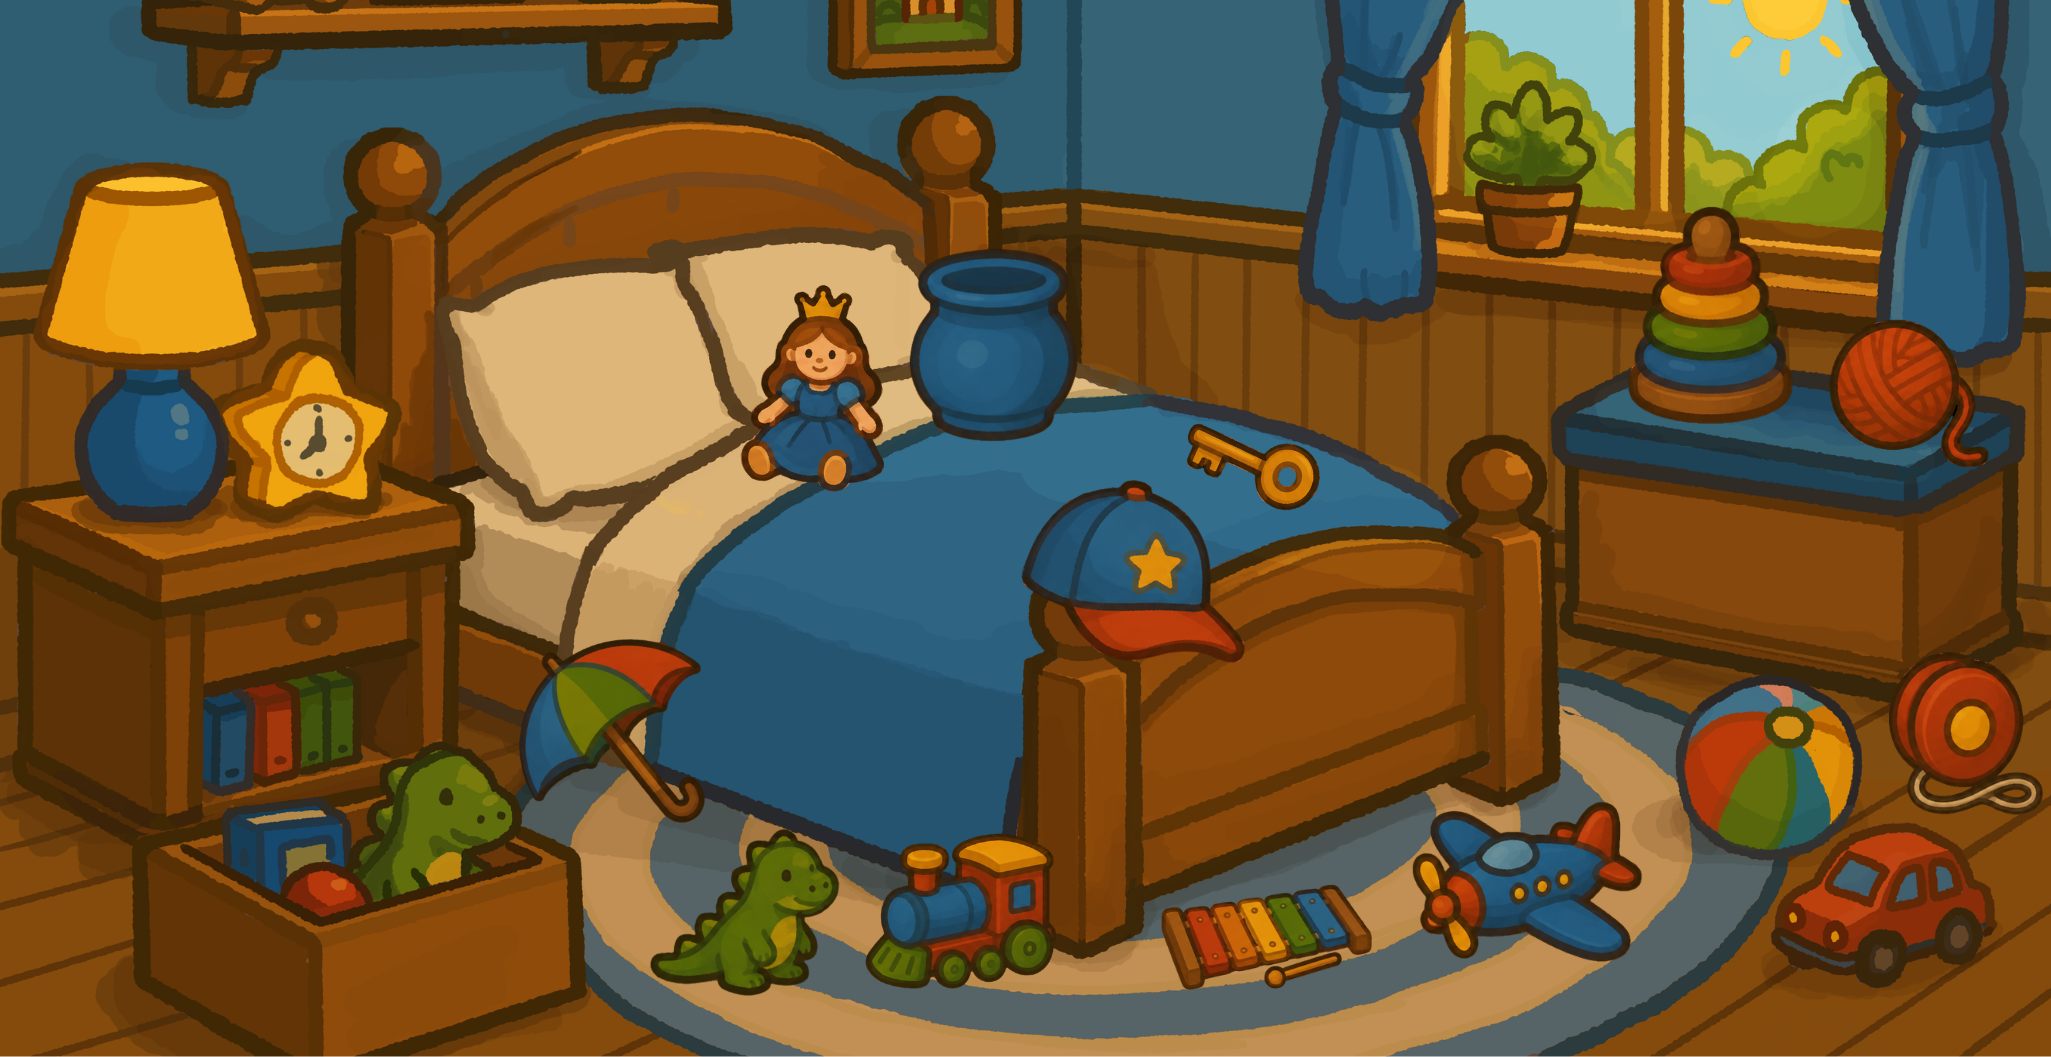
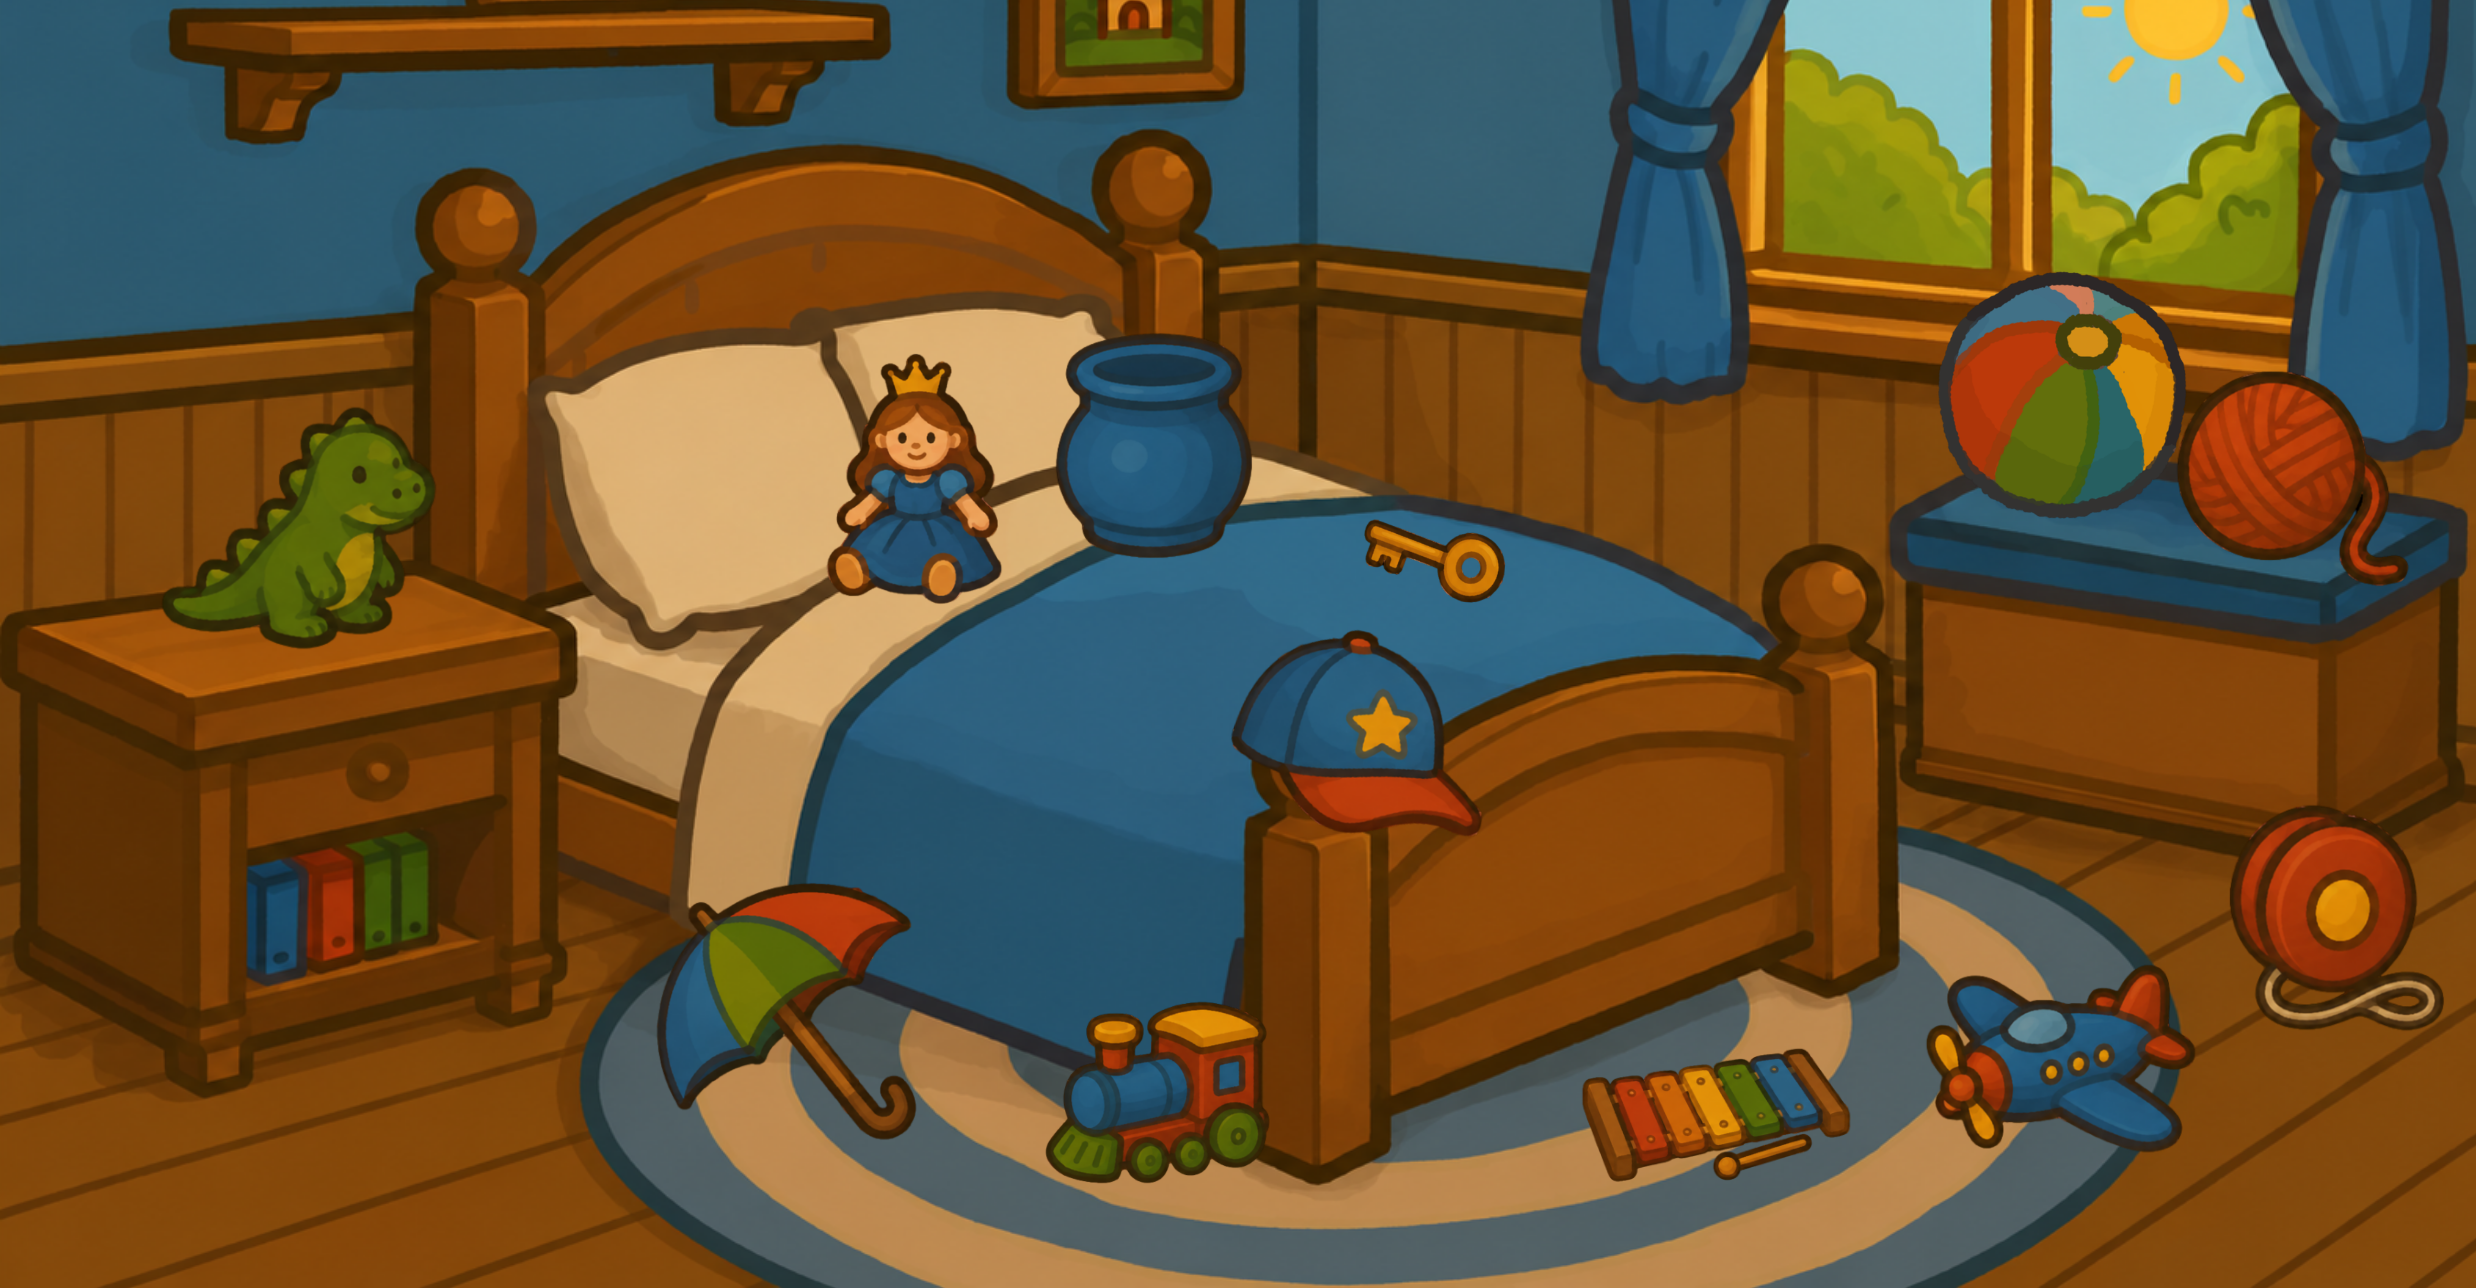
Lumi lvl 3: add hint, fix scattered toys, toy vo and BG

diff --git a/lib/games_ui_layer/lumi_town/lvl3/clean_bedroom_round_screen.dart b/lib/games_ui_layer/lumi_town/lvl3/clean_bedroom_round_screen.dart
@@ -1,3 +1,5 @@
+import 'dart:async';
+
 import 'package:dotted_border/dotted_border.dart';
 import 'package:flutter/material.dart';
 import 'package:flutter/services.dart';
@@ -39,6 +41,12 @@ class _BedroomRoundScreenState extends State<BedroomRoundScreen>
   // Scale pop controllers per slot (correct drop celebration)
   late List<AnimationController> _slotPopCtrl;
   late List<Animation<double>> _slotPopAnim;
+  late AnimationController _hintPulseCtrl;
+  late Animation<double> _hintPulseAnim;
+
+  // Add near the other state fields (around line 43)
+  Timer? _hintTimer;
+  String? _hintToyId; // toy currently highlighted as a hint
 
   bool _roundComplete = false;
 
@@ -84,6 +92,7 @@ class _BedroomRoundScreenState extends State<BedroomRoundScreen>
         duration: const Duration(milliseconds: 350),
       ),
     );
+
     _slotPopAnim = _slotPopCtrl
         .map(
           (ctrl) => TweenSequence([
@@ -92,10 +101,20 @@ class _BedroomRoundScreenState extends State<BedroomRoundScreen>
           ]).animate(CurvedAnimation(parent: ctrl, curve: Curves.easeOut)),
         )
         .toList();
+
+    _hintPulseCtrl = AnimationController(
+      vsync: this,
+      duration: const Duration(milliseconds: 700),
+    )..repeat(reverse: true);
+    _hintPulseAnim = CurvedAnimation(parent: _hintPulseCtrl, curve: Curves.easeInOut);
+
+    _startHintTimer();
   }
 
   @override
   void dispose() {
+    _hintTimer?.cancel();
+    _hintPulseCtrl.dispose();
     _player.dispose();
     for (final c in _slotShakeCtrl) {
       c.dispose();
@@ -109,6 +128,8 @@ class _BedroomRoundScreenState extends State<BedroomRoundScreen>
   // ── Drag handlers ─────────────────────────────────────────────────────────
 
   Future<void> _onToyPickup(String toyId) async {
+    _startHintTimer();
+    setState(() => _hintToyId = null);
     if (_player.state == PlayerState.playing) {
       await waitForAudio(_player);
     }
@@ -153,6 +174,22 @@ class _BedroomRoundScreenState extends State<BedroomRoundScreen>
         _player,
         'assets/audio/lumi_town/level3/vo_wrong.wav',
       );
+    }
+  }
+
+  void _startHintTimer() {
+    _hintTimer?.cancel();
+    _hintTimer = Timer(const Duration(seconds: 5), _showHint);
+  }
+
+  void _showHint() {
+    if (!mounted || _roundComplete) return;
+    // Find the first unfilled slot's expected toy
+    for (int i = 0; i < _targetIds.length; i++) {
+      if (!_filledSlots.containsKey(i)) {
+        setState(() => _hintToyId = _targetIds[i]);
+        break;
+      }
     }
   }
 
@@ -248,18 +285,18 @@ class _BedroomRoundScreenState extends State<BedroomRoundScreen>
     double toySize,
   ) {
     const positions = [
-      Offset(0.73, 0.91), // airplane
+      Offset(0.83, 0.91), // airplane
       Offset(0.545, 0.65), // cap
-      Offset(0.35, 0.90), // dinosaur
+      Offset(0.12, 0.51), // dinosaur
       Offset(0.40, 0.48), // doll
       Offset(0.50, 0.45), // jar
       Offset(0.60, 0.55), // key
-      Offset(0.82, 0.42), // stacking_toy
+      Offset(0.82, 0.42), // ball
       Offset(0.47, 0.91), // train
-      Offset(0.29, 0.75), // umbrella
-      Offset(0.62, 0.95), // xylophone
+      Offset(0.32, 0.85), // umbrella
+      Offset(0.70, 0.93), // xylophone
       Offset(0.92, 0.47), // yarn
-      Offset(0.95, 0.80), // yoyo
+      Offset(0.95, 0.85), // yoyo
     ];
 
     return List.generate(_visibleToyIds.length, (i) {
@@ -273,11 +310,12 @@ class _BedroomRoundScreenState extends State<BedroomRoundScreen>
       return Positioned(
         left: dx,
         top: dy,
-        // No AnimatedBuilder, just the draggable directly
         child: _DraggableToy(
           toy: toyById(toyId),
           size: toySize,
           onPickup: () => _onToyPickup(toyId),
+          isHinted: toyId == _hintToyId,
+          pulse: _hintPulseAnim,
         ),
       );
     });
@@ -463,11 +501,15 @@ class _DraggableToy extends StatelessWidget {
   final ToyItem toy;
   final double size;
   final VoidCallback onPickup;
+  final bool isHinted;
+  final Animation<double> pulse;
 
   const _DraggableToy({
     required this.toy,
     required this.size,
     required this.onPickup,
+    required this.isHinted,
+    required this.pulse,
   });
 
   @override
@@ -480,12 +522,41 @@ class _DraggableToy extends StatelessWidget {
       opacity: 0.95,
     );
 
-    return Draggable<String>(
+    final draggable = Draggable<String>(
       data: toy.id,
       onDragStarted: onPickup,
       feedback: feedback,
       childWhenDragging: ghost,
       child: icon,
+    );
+
+    if (!isHinted) return draggable;
+
+    return AnimatedBuilder(
+      animation: pulse,
+      builder: (context, child) {
+        final t = pulse.value; // 0 → 1 → 0
+        final bounce = -10.0 * t; // lift up to 10px at peak
+        final glow = 0.3 + (0.5 * t); // glow strength 0.3 → 0.8
+
+        return Transform.translate(
+          offset: Offset(0, bounce),
+          child: Container(
+            decoration: BoxDecoration(
+              shape: BoxShape.circle,
+              boxShadow: [
+                BoxShadow(
+                  color: Colors.yellowAccent.withValues(alpha: glow),
+                  blurRadius: 20 + (20 * t),
+                  spreadRadius: 4 + (6 * t),
+                ),
+              ],
+            ),
+            child: child,
+          ),
+        );
+      },
+      child: draggable,
     );
   }
 }

diff --git a/lib/games_ui_layer/lumi_town/lvl3/clean_bedroom_data.dart b/lib/games_ui_layer/lumi_town/lvl3/clean_bedroom_data.dart
@@ -37,7 +37,7 @@ const List<ToyItem> kAllToys = [
   ToyItem(
     id: 'doll',
     imagePath: 'assets/images/objects/lumi/doll.png',
-    audioPath: 'assets/audio/lumi_town/level3/vo_doll.wav',
+    audioPath: 'assets/audio/lumi_town/level3/vo_queen.wav',
   ),
   ToyItem(
     id: 'jar',
@@ -50,9 +50,9 @@ const List<ToyItem> kAllToys = [
     audioPath: 'assets/audio/lumi_town/level3/vo_key.wav',
   ),
   ToyItem(
-    id: 'stacking_toy',
-    imagePath: 'assets/images/objects/lumi/stacking_toy.png',
-    audioPath: 'assets/audio/lumi_town/level3/vo_stacking_toy.wav',
+    id: 'ball',
+    imagePath: 'assets/images/objects/lumi/ball.png',
+    audioPath: 'assets/audio/lumi_town/level3/vo_ball.wav',
   ),
   ToyItem(
     id: 'train',
@@ -88,20 +88,20 @@ const List<List<String>> kRounds = [
   ['doll', 'cap', 'xylophone'],
   ['dinosaur', 'train', 'yarn'],
   ['airplane', 'yoyo', 'umbrella'],
-  ['jar', 'key', 'stacking_toy'],
+  ['jar', 'key', 'ball'],
 ];
 
 const List<List<String>> kRoundTargets = [
   ['doll', 'cap', 'xylophone'],      // round 1 targets
   ['dinosaur', 'train', 'yarn'],     // round 2 targets
   ['airplane', 'yoyo', 'umbrella'],  // round 3 targets
-  ['jar', 'key', 'stacking_toy'],    // round 4 targets
+  ['jar', 'key', 'ball'],    // round 4 targets
 ];
 
 // All toys start visible, removed as they're placed
 const List<String> kAllToyIds = [
   'airplane', 'cap', 'dinosaur', 'doll',
-  'jar', 'key', 'stacking_toy', 'train',
+  'jar', 'key', 'ball', 'train',
   'umbrella', 'xylophone', 'yarn', 'yoyo',
 ];
 